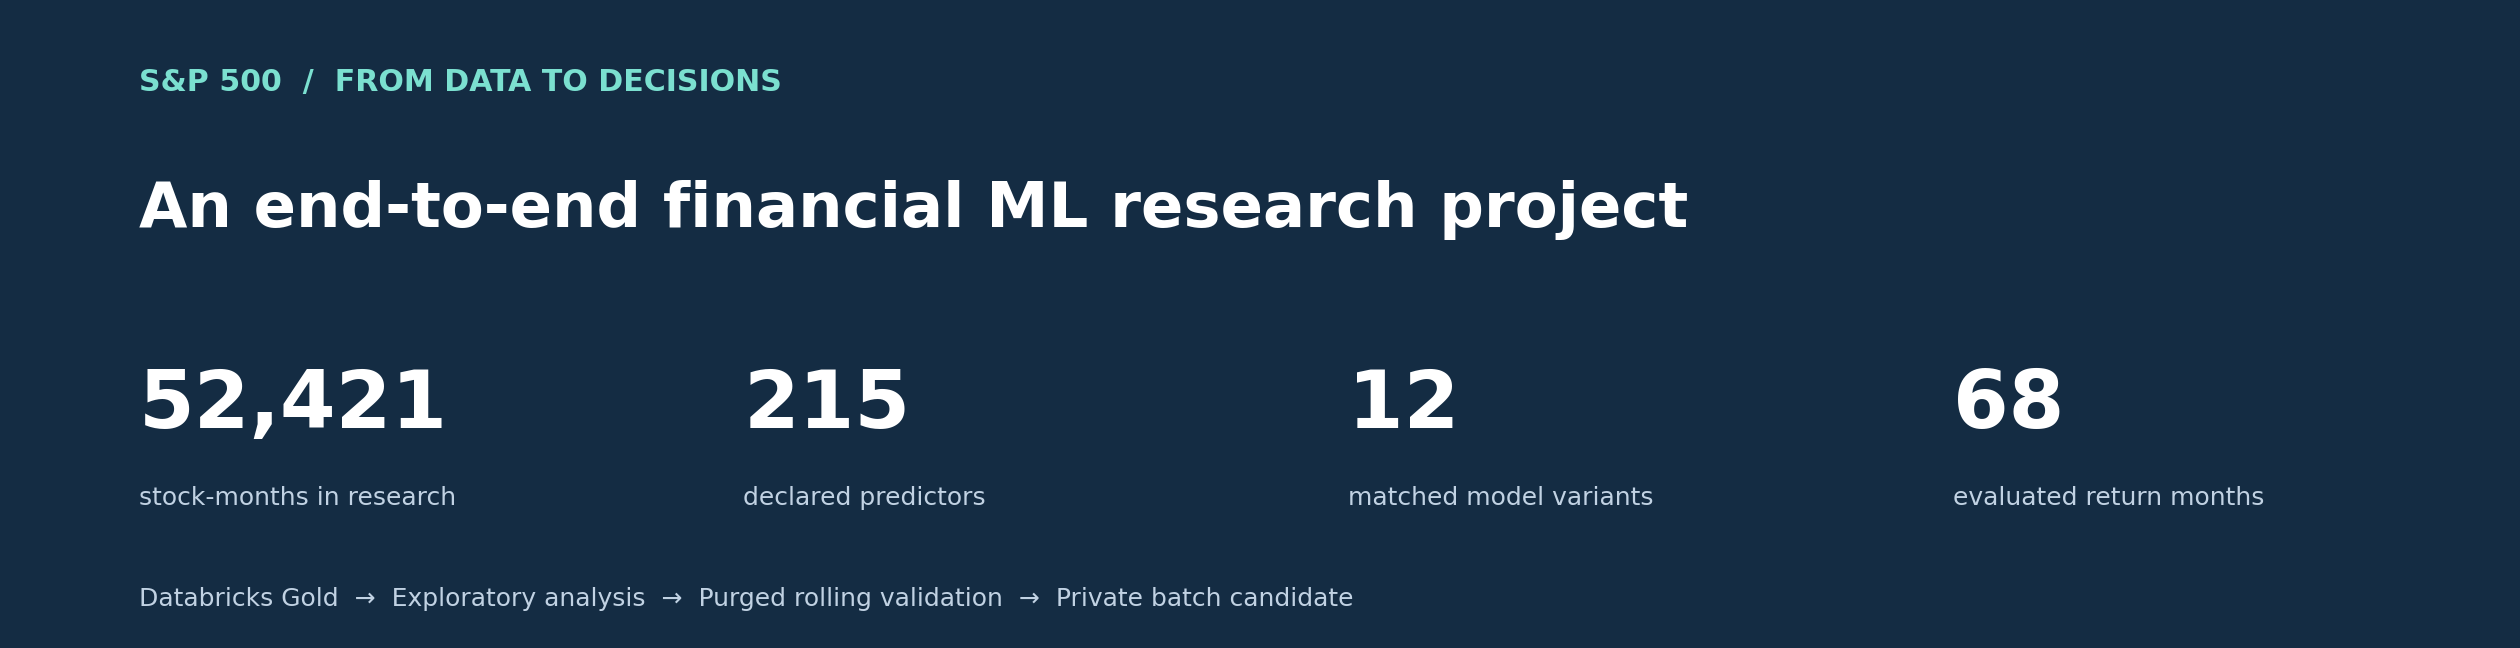
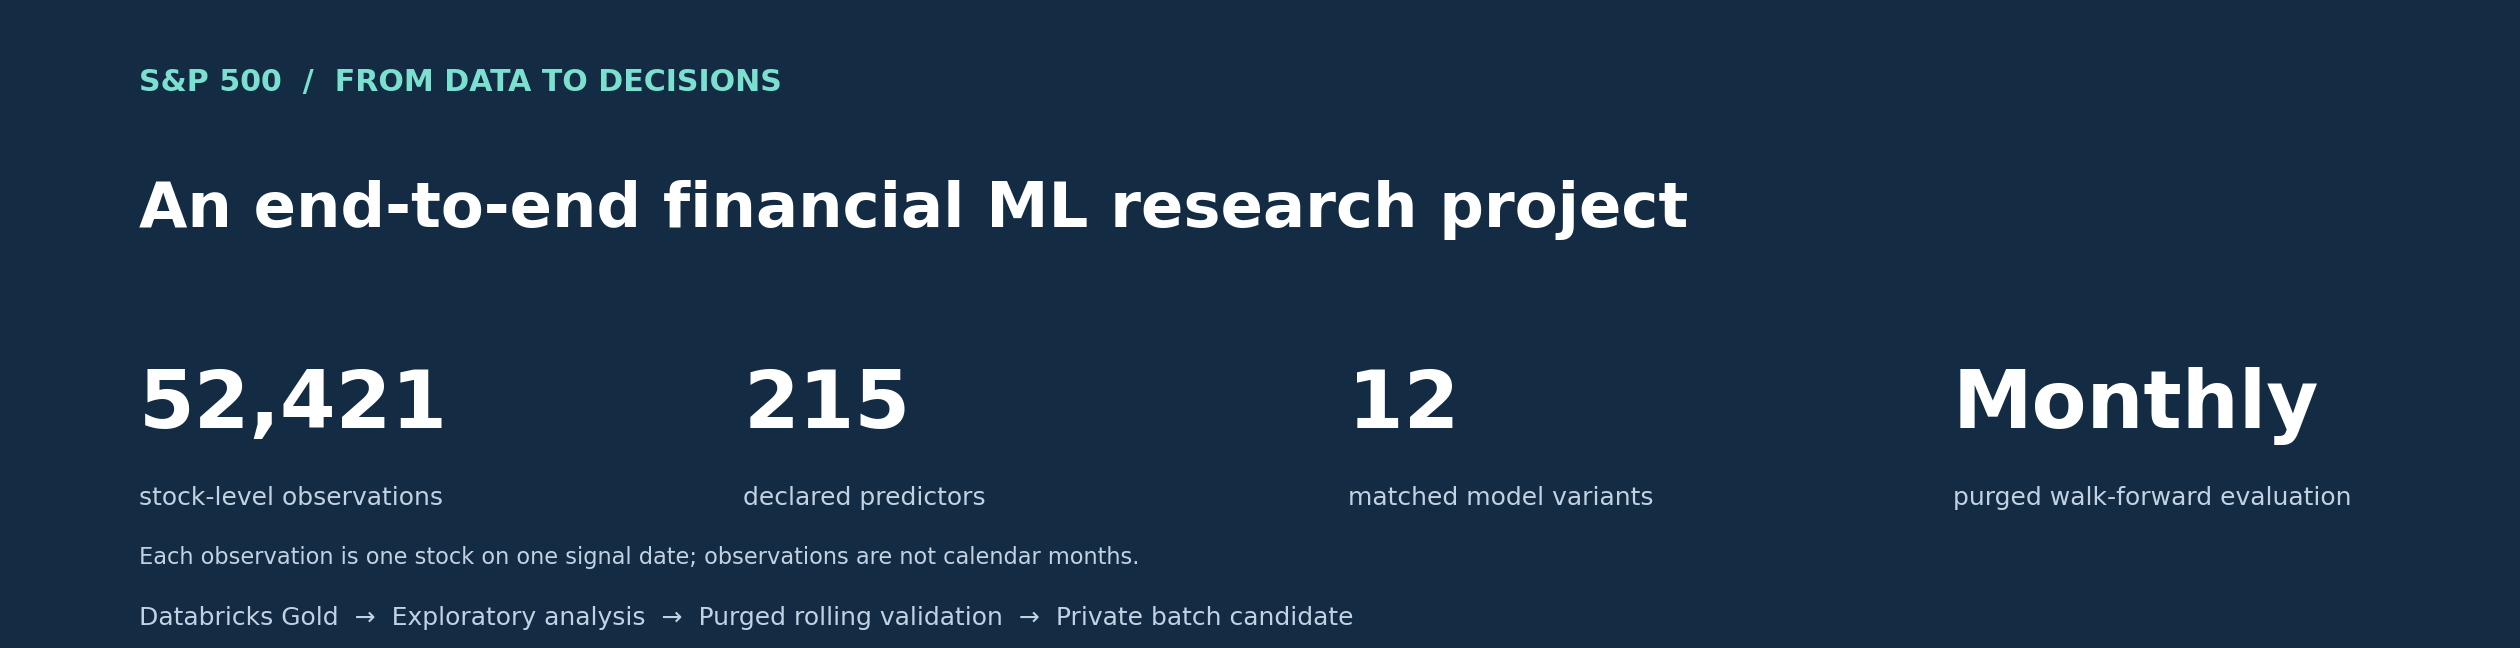
Clarify observation counts and monthly evaluation labels

diff --git a/scripts/build_readme_figures.py b/scripts/build_readme_figures.py
@@ -51,10 +51,11 @@ assert len(monthly)==provenance['return_months']==68
 fig = plt.figure(figsize=(14, 3.6), facecolor=INK)
 fig.text(.055,.86,'S&P 500  /  FROM DATA TO DECISIONS',color='#7BE0D0',fontsize=12,weight='bold')
 fig.text(.055,.65,'An end-to-end financial ML research project',color='white',fontsize=25,weight='bold')
-for x, value, label in zip([.055,.295,.535,.775], [f"{provenance['research_rows']:,}",str(feature_count),str(provenance['models']),str(provenance['return_months'])], ['stock-months in research','declared predictors','matched model variants','evaluated return months']):
+for x, value, label in zip([.055,.295,.535,.775], [f"{provenance['research_rows']:,}",str(feature_count),str(provenance['models']),'Monthly'], ['stock-level observations','declared predictors','matched model variants','purged walk-forward evaluation']):
     fig.text(x,.34,value,color='white',fontsize=32,weight='bold')
     fig.text(x,.22,label,color='#C1D2E3',fontsize=10)
-fig.text(.055,.065,'Databricks Gold  →  Exploratory analysis  →  Purged rolling validation  →  Private batch candidate',color='#C1D2E3',fontsize=10)
+fig.text(.055,.13,'Each observation is one stock on one signal date; observations are not calendar months.',color='#C1D2E3',fontsize=9)
+fig.text(.055,.035,'Databricks Gold  →  Exploratory analysis  →  Purged rolling validation  →  Private batch candidate',color='#C1D2E3',fontsize=10)
 fig.savefig(OUT/'research_overview.png',dpi=180,facecolor=INK)
 plt.close(fig)
 

diff --git a/README.md b/README.md
@@ -10,7 +10,9 @@ An end-to-end data-science project investigating whether technical, sector and f
 
 The companion [S&P 500 Market Lakehouse](https://github.com/andrewnapurano00/SP500-Market-Lakehouse) owns ingestion, PostgreSQL migration and governed Databricks data. **This repository owns the research and modeling layer.** It publishes code, aggregate historical results and figures. Market-data rows, security-level predictions, holdings, credentials and fitted estimators remain private.
 
-![Research scope: 52,421 stock-months, 215 predictors, 12 model variants and 68 evaluated return months](docs/figures/readme/research_overview.png)
+![Research scope: 52,421 stock-level observations, 215 predictors, 12 model variants and monthly walk-forward evaluation](docs/figures/readme/research_overview.png)
+
+**Reading the counts:** 52,421 is the number of stock-level observations, not months. The research sample spans 105 monthly signal dates (January 2018–September 2026); after the initial training window and purge, the backtest contains 68 monthly returns (March 2021–October 2026).
 
 **[Model performance](#historical-model-results) · [Explore the EDA](#exploratory-analysis) · [Architecture](#architecture) · [Skills demonstrated](#data-science-skills-demonstrated) · [Deployment roadmap](#deployment-status-and-next-steps)**
 
